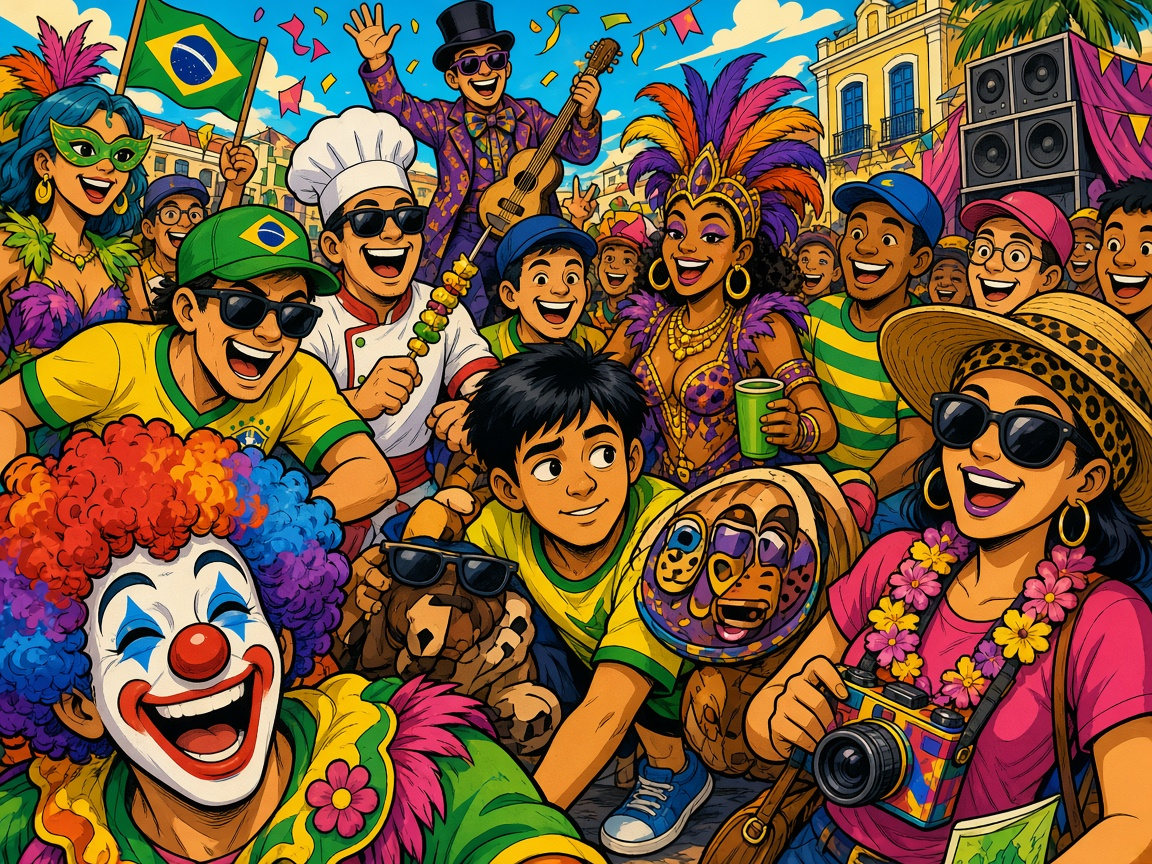
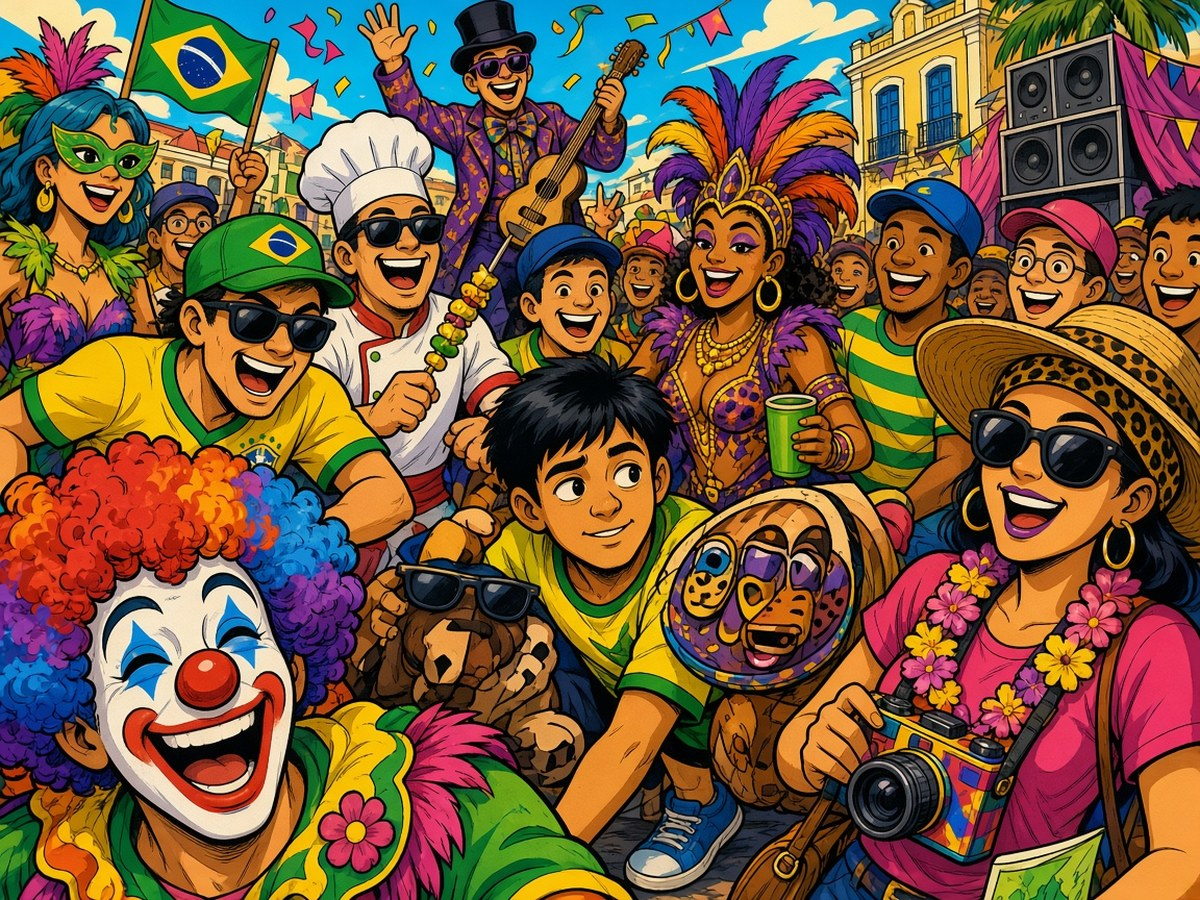
Equaliza altura das artes nos cards da home
Altura fixa na área da imagem e cards em coluna pra alinhar os três modos.

diff --git a/src/components/home/ModePicker.tsx b/src/components/home/ModePicker.tsx
@@ -65,26 +65,26 @@ export function ModePicker({ onPick }: Props) {
               </div>
             </div>
 
-            <div className="relative mt-10 grid gap-4 sm:grid-cols-3">
+            <div className="relative mt-10 grid items-stretch gap-4 sm:grid-cols-3">
               {GAME_MODES.map((mode, i) => (
                 <button
                   key={mode.id}
                   type="button"
                   onClick={() => onPick(mode.id)}
-                  className={`animate-rise group overflow-hidden rounded-3xl border-[3px] text-left shadow-[6px_6px_0_var(--ink)] transition hover:-translate-y-1 hover:shadow-[8px_8px_0_var(--ink)] ${mode.tone}`}
+                  className={`animate-rise group flex h-full flex-col overflow-hidden rounded-3xl border-[3px] text-left shadow-[6px_6px_0_var(--ink)] transition hover:-translate-y-1 hover:shadow-[8px_8px_0_var(--ink)] ${mode.tone}`}
                   style={{ animationDelay: `${i * 80}ms` }}
                 >
-                  <div className="relative aspect-[4/3] w-full overflow-hidden border-b-[3px] border-[var(--ink)]/20 bg-[var(--sand)]">
+                  <div className="relative h-44 w-full shrink-0 overflow-hidden border-b-[3px] border-[var(--ink)]/20 bg-[var(--sand)] sm:h-48">
                     <Image
                       src={mode.art}
                       alt={mode.artAlt}
                       fill
                       sizes="(max-width: 640px) 100vw, 33vw"
-                      className="object-cover transition duration-500 group-hover:scale-[1.04]"
+                      className="object-cover object-center transition duration-500 group-hover:scale-[1.04]"
                       priority={i === 0}
                     />
                   </div>
-                  <div className="p-5">
+                  <div className="flex flex-1 flex-col p-5">
                     <p className="text-[11px] font-bold uppercase tracking-[0.18em] text-[var(--ink)]/70">
                       {mode.badge}
                     </p>
@@ -97,7 +97,7 @@ export function ModePicker({ onPick }: Props) {
                     <p className="mt-2 text-sm leading-snug text-[var(--ink)]/75">
                       {mode.blurb}
                     </p>
-                    <span className="mt-5 inline-flex items-center gap-2 rounded-xl border-2 border-[var(--ink)] bg-white px-3 py-2 text-sm font-[family-name:var(--font-display)] text-[var(--ink)] shadow-[3px_3px_0_var(--ink)] transition group-hover:translate-x-[1px] group-hover:translate-y-[1px] group-hover:shadow-[2px_2px_0_var(--ink)]">
+                    <span className="mt-auto inline-flex w-fit items-center gap-2 rounded-xl border-2 border-[var(--ink)] bg-white px-3 py-2 text-sm font-[family-name:var(--font-display)] text-[var(--ink)] shadow-[3px_3px_0_var(--ink)] transition group-hover:translate-x-[1px] group-hover:translate-y-[1px] group-hover:shadow-[2px_2px_0_var(--ink)] pt-5">
                       Entrar
                       <span aria-hidden>→</span>
                     </span>
